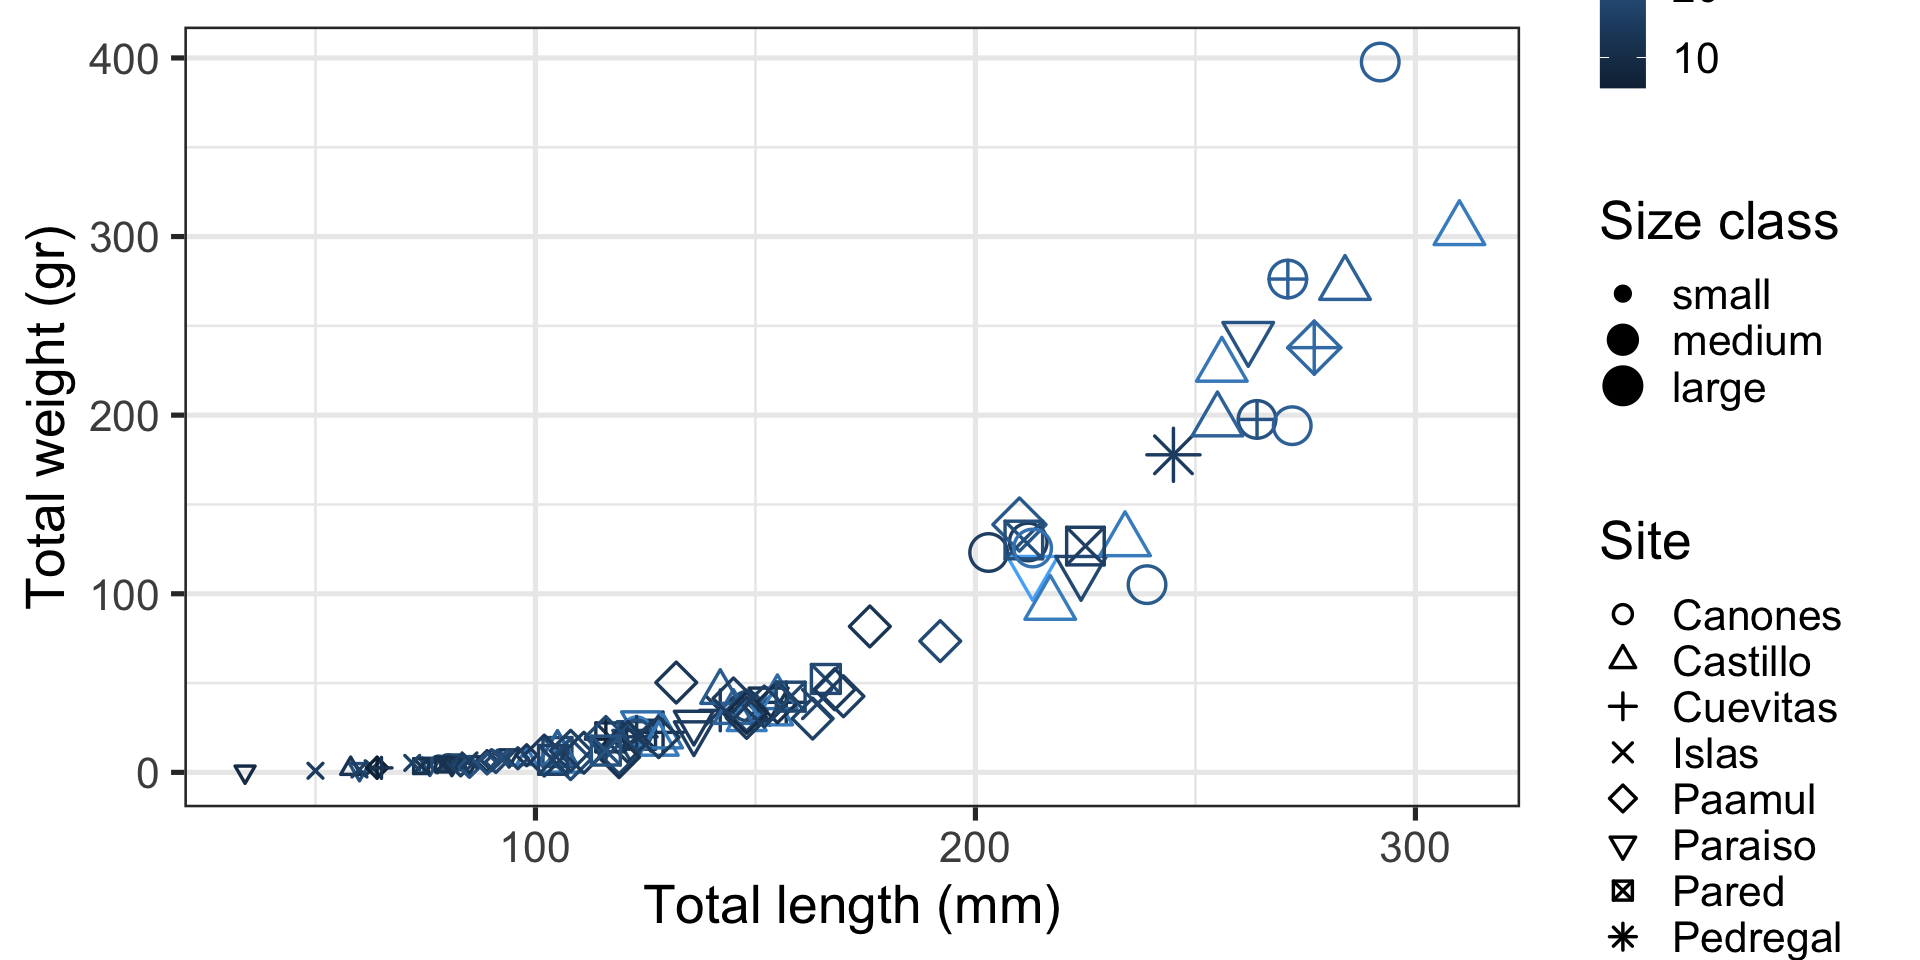
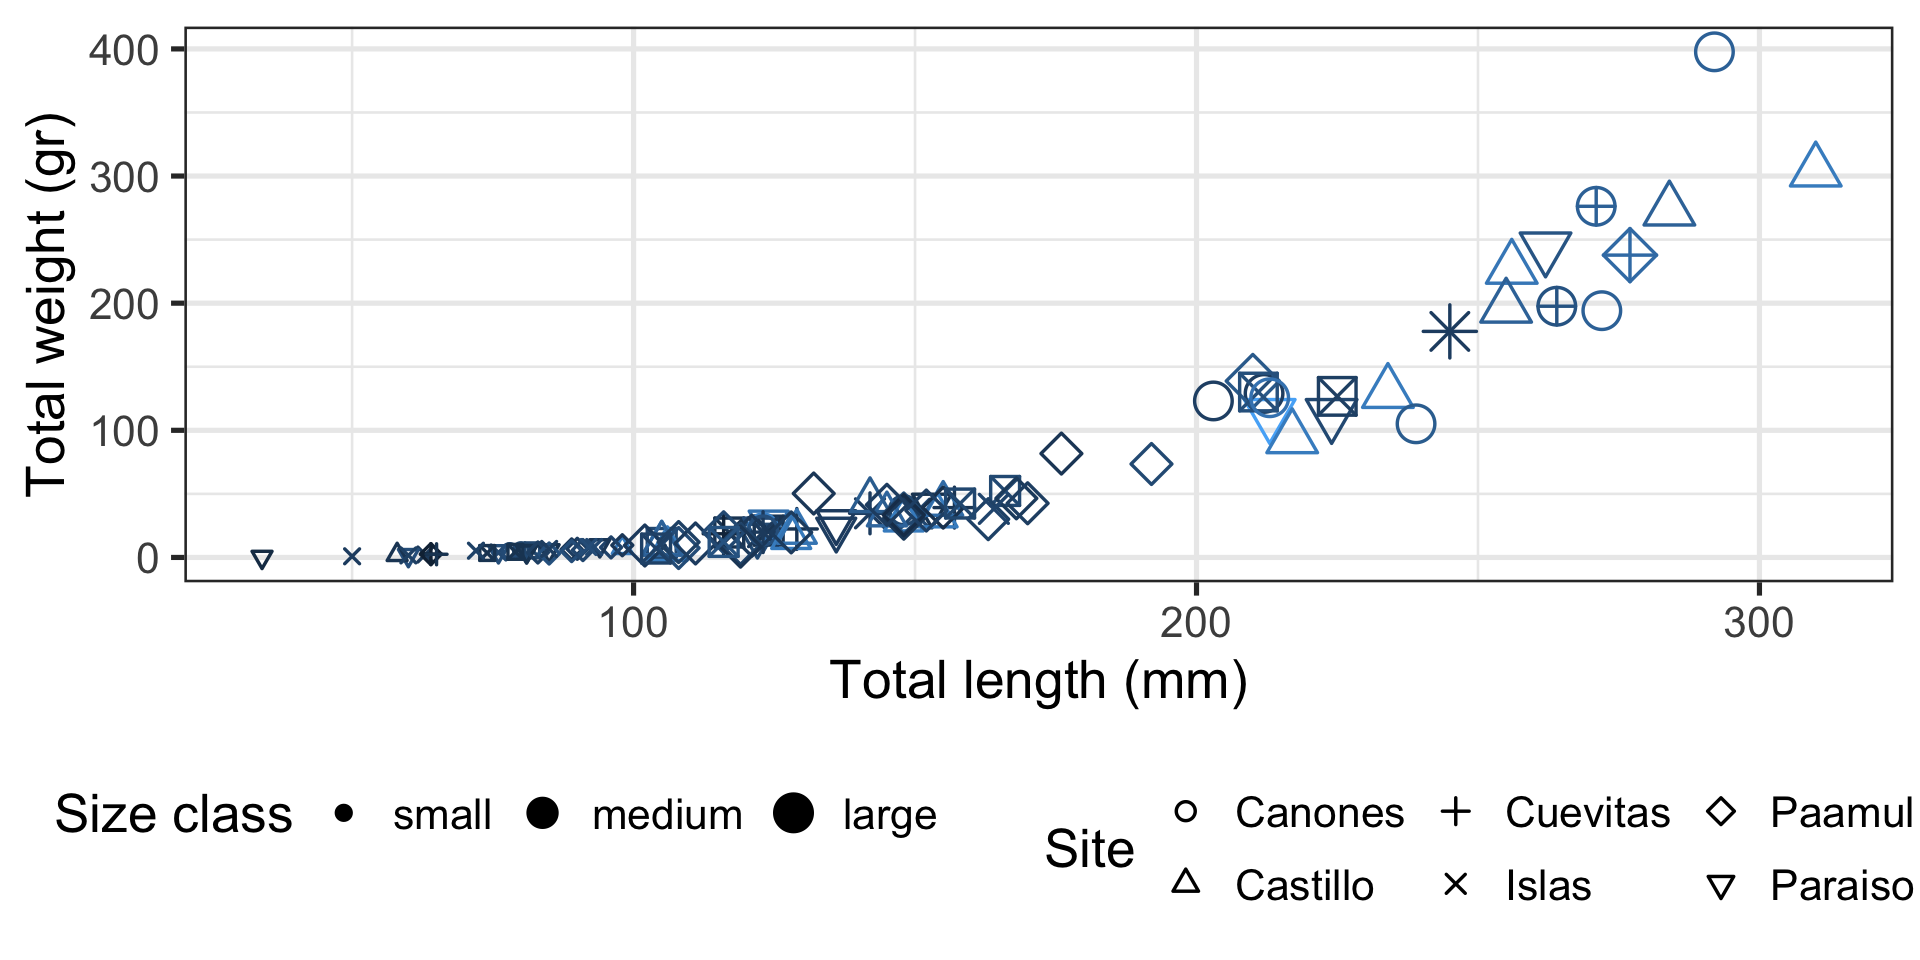
Updated slides

diff --git a/slides/03_data_vis.html b/slides/03_data_vis.html
@@ -520,7 +520,7 @@ Juan Carlos Villaseñor-Derbez (JC)
 <h2>Many Types of Visualizations</h2>
 <p>There are many, many, MANY types of visualizations:</p>
 <ul>
-<li class="fragment">scatter plot, column chart (stacked columns, dodge columns), histogram, 2d-histogram, violin plots, boxplots, pie charts (eww), heatmaps, line graphs, area charts, stacked area, density, voronoi plots, alluvial diagrams…</li>
+<li class="fragment">scatter plot, column chart (stacked columns, dodge columns), histogram, 2d-histogram, violin plots, box-plots, pie charts (eww), heat maps, line graphs, area charts, stacked area, density, voronoi plots, alluvial diagrams…</li>
 </ul>
 <div class="fragment">
 <p>But what really matters:</p>
@@ -624,7 +624,7 @@ Juan Carlos Villaseñor-Derbez (JC)
 </div>
 <p>Message: “Tzimin-Ha has the heaviest fish”</p>
 </div><div class="column" style="width:40%;">
-<h3 id="boxplot"><span style="color:green">Boxplot:</span></h3>
+<h3 id="box-plot"><span style="color:green">Box plot:</span></h3>
 <ul>
 <li class="fragment"><em>Distribution</em> of a continuous variable by groups</li>
 <li class="fragment">Line inside box shows median</li>
@@ -674,7 +674,7 @@ Juan Carlos Villaseñor-Derbez (JC)
 </div>
 <p>Message: “Most fish are medium sized and come from Paamul”</p>
 </div><div class="column" style="width:40%;">
-<h3 id="heatmap"><span style="color:green">Heatmap:</span></h3>
+<h3 id="heat-map"><span style="color:green">Heat map:</span></h3>
 <ul>
 <li class="fragment">Shows counts across two variables at the same time</li>
 <li class="fragment">Uses <code>ggplot2::geom_bin_2d()</code></li>
@@ -721,7 +721,7 @@ Juan Carlos Villaseñor-Derbez (JC)
 </div>
 <p>Message: “Look, slightly larger fish are waaaay heavier!”</p>
 </div><div class="column" style="width:40%;">
-<h3 id="scatterplot"><span style="color:blue">Scatterplot:</span></h3>
+<h3 id="scatter-plot"><span style="color:blue">Scatter plot:</span></h3>
 <ul>
 <li class="fragment">Relationship between two continuous numeric variables</li>
 <li class="fragment">Represented with points</li>
@@ -920,19 +920,19 @@ Juan Carlos Villaseñor-Derbez (JC)
 </section>
 <section id="jambor2025-pds-guide-to-visualization" class="slide level2">
 <h2><span class="citation" data-cites="Jambor2025-pd">Jambor (<a href="#/references" role="doc-biblioref" onclick="">2025</a>)</span>’s Guide to Visualization</h2>
-<ul>
-<li class="fragment"><a href="#/simplify">Simplify</a>: Improving annotations, labels, and layouts helps you retain the audience’s attention</li>
-<li class="fragment"><a href="#/text">Text</a>: Appropriate font size, avoid non-horizontal text. <strong>Axis labels with units!!</strong></li>
-<li class="fragment"><a href="#/color-scheme">Color scheme:</a>
-<ul>
-<li class="fragment">Prioritize accessibility and <strong>consistency</strong></li>
-<li class="fragment">Don’t abuse color; Use only when you must draw attention</li>
+<ul class="task-list">
+<li class="fragment"><label><input type="checkbox"><a href="#/simplify">Simplify</a>: Improving annotations, labels, and layouts helps you retain the audience’s attention</label></li>
+<li class="fragment"><label><input type="checkbox"><a href="#/text">Text</a>: Appropriate font size, avoid non-horizontal text. <strong>Axis labels with units!!</strong></label></li>
+<li class="fragment"><label><input type="checkbox"><a href="#/color-scheme">Color scheme:</a></label>
+<ul class="task-list">
+<li class="fragment"><label><input type="checkbox">Prioritize accessibility and <strong>consistency</strong></label></li>
+<li class="fragment"><label><input type="checkbox">Don’t abuse color; Use only when you must draw attention</label></li>
 </ul></li>
-<li class="fragment">If you absolutely need color, consider <em>type</em> of data:
-<ul>
-<li class="fragment"><a href="#/categorical-data">categorical</a>: Use a discrete color palette (e.g.&nbsp;<code>EVR628tools::palette_UM()</code>)</li>
-<li class="fragment"><a href="#/ordinal-or-numeric">ordinal and numeric</a>: single hue with varying saturation or multihue <em>designed</em> for sequential (e.g.&nbsp;<code>viridis</code> colors)</li>
-<li class="fragment">If ordinal but <a href="#/diverging">diverging</a> data: two contrasting hues and neutral center is better than a single hue or multihues</li>
+<li class="fragment"><label><input type="checkbox">If you absolutely need color, consider <em>type</em> of data:</label>
+<ul class="task-list">
+<li class="fragment"><label><input type="checkbox"><a href="#/categorical-data">categorical</a>: Use a discrete color palette (e.g.&nbsp;<code>EVR628tools::palette_UM()</code>)</label></li>
+<li class="fragment"><label><input type="checkbox"><a href="#/ordinal-or-numeric">ordinal and numeric</a>: single hue with varying saturation or multi-hue <em>designed</em> for sequential (e.g.&nbsp;<code>viridis</code> colors)</label></li>
+<li class="fragment"><label><input type="checkbox">If ordinal but <a href="#/diverging">diverging</a> data: two contrasting hues and neutral center is better than a single hue or multi-hues</label></li>
 </ul></li>
 </ul>
 </section>
@@ -1302,7 +1302,8 @@ Juan Carlos Villaseñor-Derbez (JC)
 <span id="cb25-6"><a href=""></a>       <span class="at">color =</span> <span class="st">"Site"</span>,</span>
 <span id="cb25-7"><a href=""></a>       <span class="at">shape =</span> <span class="st">"Site"</span>,</span>
 <span id="cb25-8"><a href=""></a>       <span class="at">size =</span> <span class="st">"Size class"</span>) <span class="sc">+</span></span>
-<span id="cb25-9"><a href=""></a>  <span class="fu">scale_shape_manual</span>(<span class="at">values =</span> <span class="fu">c</span>(<span class="dv">1</span><span class="sc">:</span><span class="dv">10</span>))</span></code></pre></div><button title="Copy to Clipboard" class="code-copy-button"><i class="bi"></i></button></div>
+<span id="cb25-9"><a href=""></a>  <span class="fu">scale_shape_manual</span>(<span class="at">values =</span> <span class="fu">c</span>(<span class="dv">1</span><span class="sc">:</span><span class="dv">10</span>)) <span class="sc">+</span></span>
+<span id="cb25-10"><a href=""></a>  <span class="fu">theme</span>(<span class="at">legend.position =</span> <span class="st">"bottom"</span>)</span></code></pre></div><button title="Copy to Clipboard" class="code-copy-button"><i class="bi"></i></button></div>
 </details>
 <div class="cell-output-display">
 <div>
@@ -1485,7 +1486,7 @@ $ temperature_C   &lt;dbl&gt; 28, 28, 28, 28, 28, 29, 29, 29, 29, 29, 28, 28, 28
 </div>
 </section>
 <section id="modify-geoms-as-needed" class="slide level2">
-<h2>4. Modify Geoms as Needed</h2>
+<h2>4. Modify <code>geom</code>s as Needed</h2>
 <div class="cell">
 <div class="code-copy-outer-scaffold"><div class="sourceCode cell-code" id="cb33" data-code-line-numbers="3"><pre class="sourceCode numberSource r number-lines code-with-copy"><code class="sourceCode r"><span id="cb33-1"><a href=""></a><span class="fu">ggplot</span>(<span class="at">data =</span> data_lionfish,</span>
 <span id="cb33-2"><a href=""></a>       <span class="at">mapping =</span> <span class="fu">aes</span>(<span class="at">x =</span> depth_m, <span class="at">y =</span> total_length_mm)) <span class="sc">+</span></span>

diff --git a/README.md b/README.md
@@ -80,10 +80,13 @@ Students must complete any assigned readings and software tests before class. No
 
 **Relevant links for the week**
 - Assigned readings: 
-  - Jambor, H.K. ["A checklist for designing and improving the visualization of scientific data."](https://doi.org/10.1038/s41556-025-01684-z) Nat Cell Biol 27, 879–883 (2025).
-  - R4DS [CH1: Data visualization](https://r4ds.hadley.nz/data-visualize.html)
+  - For Tuesday:
+    - [Jambor, H. K. (2025). A checklist for designing and improving the visualization of scientific data. Nature Cell Biology, 27(6), 879-883.](https://doi.org/10.1038/s41556-025-01684-z) Nat Cell Biol 27, 879–883 (2025).
+  - For Thursday:
+    - R4DS [CH1: Data visualization](https://r4ds.hadley.nz/data-visualize.html)
+    - [Jambor, H. K., & Lex, A. (2026). Click to plot: Points of view. Nature](https://www.nature.com/articles/s41592-026-03147-1)
+    - Englander, G. [“Timeless principles for better figure design”](https://blogs.worldbank.org/en/impactevaluations/timeless-principles-for-better-figure-design). The World Bank
 - Other links: 
-  - Englander, G. [“Timeless principles for better figure design”](https://blogs.worldbank.org/en/impactevaluations/timeless-principles-for-better-figure-design). The World Bank
   - IPCC [Visual Style Guide](https://www.ipcc.ch/site/assets/uploads/2022/09/IPCC_AR6_WGI_VisualStyleGuide_2022.pdf) by the IPCC
   - The [R Graph Gallery](https://r-graph-gallery.com/)
   - [Data-to-viz](https://www.data-to-viz.com/)
